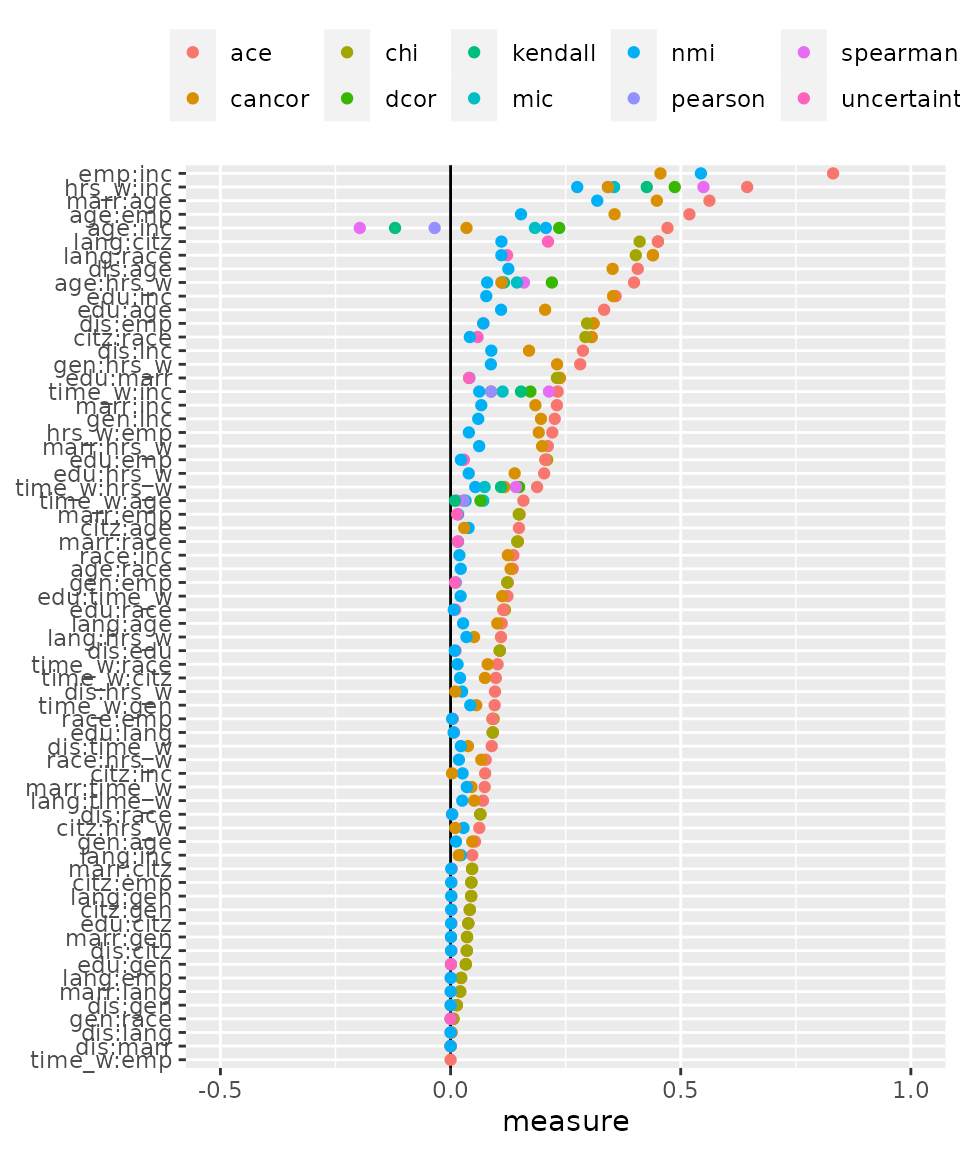
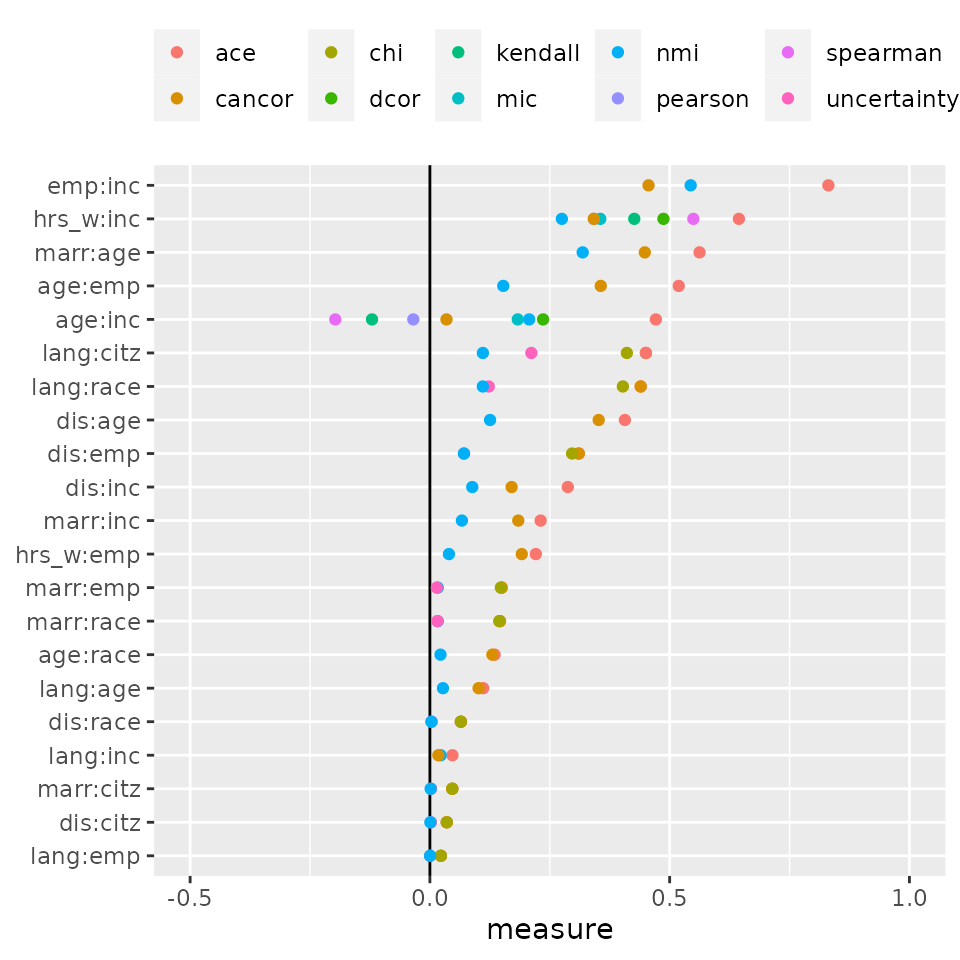
Deploying to gh-pages from @ chinwan16/corVis@39d6e52af5d3ac30970b682ee16a531679c1965a 🚀

diff --git a/articles/seriation.html b/articles/seriation.html
@@ -85,7 +85,7 @@
                         <h4 data-toc-skip class="author">Amit Chinwan
 and Catherine Hurley</h4>
             
-            <h4 data-toc-skip class="date">2023-03-28</h4>
+            <h4 data-toc-skip class="date">2023-03-29</h4>
       
       
       <div class="hidden name"><code>seriation.Rmd</code></div>
@@ -275,7 +275,19 @@ associated variables.</p>
 <div class="sourceCode" id="cb4"><pre class="downlit sourceCode r">
 <code class="sourceCode R"><span><span class="va">multi_assoc</span> <span class="op">&lt;-</span> <span class="fu"><a href="../reference/calc_assoc_all.html">calc_assoc_all</a></span><span class="op">(</span><span class="va">acs12</span><span class="op">)</span></span>
 <span></span>
-<span><span class="fu"><a href="../reference/plot_assoc_linear.html">plot_assoc_linear</a></span><span class="op">(</span><span class="va">multi_assoc</span>, plot_type <span class="op">=</span> <span class="st">"dotplot"</span>,limits <span class="op">=</span> <span class="fu"><a href="https://rdrr.io/r/base/c.html" class="external-link">c</a></span><span class="op">(</span><span class="op">-</span><span class="fl">0.5</span>,<span class="fl">1</span><span class="op">)</span><span class="op">)</span></span></code></pre></div>
+<span><span class="va">multi_assoc</span> <span class="op">|&gt;</span> </span>
+<span>  <span class="fu"><a href="https://dplyr.tidyverse.org/reference/group_by.html" class="external-link">group_by</a></span><span class="op">(</span><span class="va">x</span>,<span class="va">y</span><span class="op">)</span> <span class="op">|&gt;</span> </span>
+<span>  <span class="fu"><a href="https://dplyr.tidyverse.org/reference/summarise.html" class="external-link">summarise</a></span><span class="op">(</span>max<span class="op">=</span><span class="fu"><a href="https://rdrr.io/r/base/Extremes.html" class="external-link">max</a></span><span class="op">(</span><span class="va">measure</span>,na.rm <span class="op">=</span> <span class="cn">T</span><span class="op">)</span><span class="op">)</span> <span class="op">|&gt;</span> </span>
+<span>  <span class="fu"><a href="https://dplyr.tidyverse.org/reference/arrange.html" class="external-link">arrange</a></span><span class="op">(</span><span class="fu"><a href="https://dplyr.tidyverse.org/reference/desc.html" class="external-link">desc</a></span><span class="op">(</span><span class="va">max</span><span class="op">)</span><span class="op">)</span> <span class="op">-&gt;</span> <span class="va">multi_assoc_max</span></span>
+<span><span class="va">multi_assoc_maxf</span> <span class="op">&lt;-</span> <span class="fu"><a href="https://dplyr.tidyverse.org/reference/filter.html" class="external-link">filter</a></span><span class="op">(</span><span class="va">multi_assoc_max</span>,<span class="va">max</span><span class="op">&gt;</span><span class="fl">0.4</span><span class="op">)</span> <span class="co"># filtering variable pairs with a maximum measure value of 0.4 or greater</span></span>
+<span></span>
+<span><span class="va">multi_assoc_mod</span> <span class="op">&lt;-</span> <span class="fu"><a href="https://dplyr.tidyverse.org/reference/filter.html" class="external-link">filter</a></span><span class="op">(</span><span class="va">multi_assoc</span>,</span>
+<span>                          <span class="va">x</span> <span class="op"><a href="https://rdrr.io/r/base/match.html" class="external-link">%in%</a></span> <span class="va">multi_assoc_maxf</span><span class="op">$</span><span class="va">x</span> <span class="op">&amp;</span> <span class="va">y</span> <span class="op"><a href="https://rdrr.io/r/base/match.html" class="external-link">%in%</a></span> <span class="va">multi_assoc_maxf</span><span class="op">$</span><span class="va">y</span><span class="op">)</span></span>
+<span></span>
+<span><span class="fu"><a href="../reference/plot_assoc_linear.html">plot_assoc_linear</a></span><span class="op">(</span><span class="va">multi_assoc_mod</span>,</span>
+<span>                  pair_order <span class="op">=</span> <span class="st">"max"</span>,</span>
+<span>                  plot_type <span class="op">=</span> <span class="st">"dotplot"</span>,</span>
+<span>                  limits <span class="op">=</span> <span class="fu"><a href="https://rdrr.io/r/base/c.html" class="external-link">c</a></span><span class="op">(</span><span class="op">-</span><span class="fl">0.5</span>,<span class="fl">1</span><span class="op">)</span><span class="op">)</span></span></code></pre></div>
 <div class="figure" style="text-align: left">
 <img src="seriation_files/figure-html/linear_cond_max-1.png" alt="Figure 1: Multiple measures display in linear layout with variable pair ordered by maximum absolute measure value." width="480"><p class="caption">
 Figure 1: Multiple measures display in linear layout with variable pair
@@ -285,13 +297,15 @@ ordered by maximum absolute measure value.
 <p>Figure 1 shows the seriated multiple measures display in linear
 layout for <code>acs12</code> data where it is easier to find highly
 associated variable pairs in the plot compared to a plot with default
-variable pairs ordering. The variable pair (<code>emp</code>,
-<code>inc</code>) is placed at the top of the display showing that the
-income and employment status of an individual is highly associated. This
-is expected as employed individuals will have a high income compared to
-unemployed participants. Another highly associated variable pair evident
-from the plot is (<code>hrs_w</code>,<code>inc</code>) showing that
-individuals working more hours earn more money.</p>
+variable pair ordering. The plot shows filtered variable pairs having a
+maximum measure value of 0.4 or greater. The variable pair
+(<code>emp</code>, <code>inc</code>) is placed at the top of the display
+showing that the income and employment status of an individual is highly
+associated. This is expected as employed individuals will have a high
+income compared to unemployed participants. Another highly associated
+variable pair evident from the plot is
+(<code>hrs_w</code>,<code>inc</code>) showing that individuals working
+more hours earn more money.</p>
 <p>We use the range of measures to order variable pairs for conditional
 measures display. The pairs of variables are ordered in descending order
 by range. As a result of this ordering, the variable pairs with the
@@ -302,7 +316,14 @@ levels are similar show that there is no effect of conditioning on their
 association.</p>
 <div class="sourceCode" id="cb5"><pre class="downlit sourceCode r">
 <code class="sourceCode R"><span><span class="va">cond_assoc</span> <span class="op">&lt;-</span> <span class="fu"><a href="../reference/calc_assoc.html">calc_assoc</a></span><span class="op">(</span><span class="va">acs12</span>, by <span class="op">=</span> <span class="st">"edu"</span>, include.overall <span class="op">=</span> <span class="cn">F</span><span class="op">)</span></span>
-<span><span class="fu"><a href="../reference/plot_assoc_linear.html">plot_assoc_linear</a></span><span class="op">(</span><span class="va">cond_assoc</span>, plot_type <span class="op">=</span> <span class="st">"dotplot"</span>,pair_order <span class="op">=</span> <span class="st">"max_diff"</span>, limits <span class="op">=</span> <span class="fu"><a href="https://rdrr.io/r/base/c.html" class="external-link">c</a></span><span class="op">(</span><span class="op">-</span><span class="fl">0.5</span>,<span class="fl">1</span><span class="op">)</span><span class="op">)</span></span></code></pre></div>
+<span><span class="va">cond_assoc</span> <span class="op">|&gt;</span> </span>
+<span>  <span class="fu"><a href="https://dplyr.tidyverse.org/reference/group_by.html" class="external-link">group_by</a></span><span class="op">(</span><span class="va">x</span>,<span class="va">y</span><span class="op">)</span> <span class="op">|&gt;</span> </span>
+<span>  <span class="fu"><a href="https://dplyr.tidyverse.org/reference/summarise.html" class="external-link">summarise</a></span><span class="op">(</span>range<span class="op">=</span><span class="fu"><a href="https://rdrr.io/r/base/Extremes.html" class="external-link">max</a></span><span class="op">(</span><span class="va">measure</span>,na.rm <span class="op">=</span> <span class="cn">T</span><span class="op">)</span><span class="op">-</span><span class="fu"><a href="https://rdrr.io/r/base/Extremes.html" class="external-link">min</a></span><span class="op">(</span><span class="va">measure</span>,na.rm <span class="op">=</span> <span class="cn">T</span><span class="op">)</span><span class="op">)</span> <span class="op">|&gt;</span> </span>
+<span>  <span class="fu"><a href="https://dplyr.tidyverse.org/reference/arrange.html" class="external-link">arrange</a></span><span class="op">(</span><span class="fu"><a href="https://dplyr.tidyverse.org/reference/desc.html" class="external-link">desc</a></span><span class="op">(</span><span class="va">range</span><span class="op">)</span><span class="op">)</span> <span class="op">-&gt;</span> <span class="va">cond_assoc_range</span></span>
+<span><span class="va">cond_assoc_rangef</span> <span class="op">&lt;-</span> <span class="fu"><a href="https://dplyr.tidyverse.org/reference/filter.html" class="external-link">filter</a></span><span class="op">(</span><span class="va">cond_assoc_range</span>,<span class="va">range</span><span class="op">&gt;=</span><span class="fl">0.25</span><span class="op">)</span> <span class="co"># filtering variable pairs with a range of 0.25 or greater</span></span>
+<span><span class="va">cond_assoc_mod</span> <span class="op">&lt;-</span> <span class="fu"><a href="https://dplyr.tidyverse.org/reference/filter.html" class="external-link">filter</a></span><span class="op">(</span><span class="va">cond_assoc</span>,</span>
+<span>                          <span class="va">x</span> <span class="op"><a href="https://rdrr.io/r/base/match.html" class="external-link">%in%</a></span> <span class="va">cond_assoc_rangef</span><span class="op">$</span><span class="va">x</span> <span class="op">&amp;</span> <span class="va">y</span> <span class="op"><a href="https://rdrr.io/r/base/match.html" class="external-link">%in%</a></span> <span class="va">cond_assoc_rangef</span><span class="op">$</span><span class="va">y</span><span class="op">)</span></span>
+<span><span class="fu"><a href="../reference/plot_assoc_linear.html">plot_assoc_linear</a></span><span class="op">(</span><span class="va">cond_assoc_mod</span>, plot_type <span class="op">=</span> <span class="st">"dotplot"</span>,pair_order <span class="op">=</span> <span class="st">"max-min"</span>, limits <span class="op">=</span> <span class="fu"><a href="https://rdrr.io/r/base/c.html" class="external-link">c</a></span><span class="op">(</span><span class="op">-</span><span class="fl">0.5</span>,<span class="fl">1</span><span class="op">)</span><span class="op">)</span></span></code></pre></div>
 <div class="figure" style="text-align: left">
 <img src="seriation_files/figure-html/linear_cond_max_diff-1.png" alt="Figure 2: Conditional association measure display in linear layout with variable pair ordered by maximum difference value at each level" width="480"><p class="caption">
 Figure 2: Conditional association measure display in linear layout with
@@ -310,14 +331,15 @@ variable pair ordered by maximum difference value at each level
 </p>
 </div>
 <p>Figure 2 shows a seriated conditional measure display using the range
-of the measures. The plot shows Pearson’s correlation for the numeric
-variable pairs and canonical correlation for factor pairs and mixed
-pairs. It is easier to spot the variable pairs with high differences
-among measures at different levels of conditioning variable
-<code>edu</code> in the plot. The levels of education in the data are
-high school or lower, college or graduate. There are also individuals in
-the data whose education level is missing and are participants who
-haven’t started school yet.</p>
+of the measures. The plot shows filtered variable pairs having a
+difference in measure values equal to or greater than 0.25. It also
+shows Pearson’s correlation for the numeric variable pairs and canonical
+correlation for factor pairs and mixed pairs. It is easier to spot the
+variable pairs with high differences among measures at different levels
+of conditioning variable <code>edu</code> in the plot. The levels of
+education in the data are high school or lower, college or graduate.
+There are also individuals in the data whose education level is missing
+and are participants who haven’t started school yet.</p>
 <p>The variable pair (<code>marr</code>, <code>age</code>) is placed at
 the top of the display and has the highest difference between the
 measures at different levels of <code>edu</code>. The two variables

diff --git a/articles/integrating_corVis.html b/articles/integrating_corVis.html
@@ -86,7 +86,7 @@
                         <h4 data-toc-skip class="author">Amit Chinwan
 and Catherine Hurley</h4>
             
-            <h4 data-toc-skip class="date">2023-03-28</h4>
+            <h4 data-toc-skip class="date">2023-03-29</h4>
       
       
       <div class="hidden name"><code>integrating_corVis.Rmd</code></div>
@@ -450,13 +450,13 @@ a network display as shown in Figure 2.</p>
 <span><span class="co">## Number of couples: 28 </span></span>
 <span><span class="co">## Number of observations: 344 </span></span>
 <span><span class="co">## Coef.: pearson, spearman, kendall, mic, MaxNMI</span></span>
-<span><span class="co">## Start time: 2023-03-28 23:30:52 </span></span>
-<span><span class="co">## Correlation coef. computation finished: 2023-03-28 23:30:56</span></span></code></pre>
+<span><span class="co">## Start time: 2023-03-29 09:50:12 </span></span>
+<span><span class="co">## Correlation coef. computation finished: 2023-03-29 09:50:15</span></span></code></pre>
 <div class="sourceCode" id="cb4"><pre class="downlit sourceCode r">
 <code class="sourceCode R"><span><span class="fu"><a href="https://rdrr.io/pkg/linkspotter/man/linkspotterGraph.html" class="external-link">linkspotterGraph</a></span><span class="op">(</span>corDF <span class="op">=</span> <span class="va">corCouples</span>, corMethod <span class="op">=</span> <span class="st">"pearson"</span>, smoothEdges <span class="op">=</span> <span class="cn">FALSE</span>, </span>
 <span>  dynamicNodes <span class="op">=</span> <span class="cn">FALSE</span><span class="op">)</span></span></code></pre></div>
-<div id="htmlwidget-3d3d0646a7ff8dc2876f" style="width:100%;height:100%;" class="visNetwork html-widget "></div>
-<script type="application/json" data-for="htmlwidget-3d3d0646a7ff8dc2876f">{"x":{"nodes":{"id":["species","island","bill_length_mm","bill_depth_mm","flipper_length_mm","body_mass_g","sex","year"],"label":["species","island","bill_length_mm","bill_depth_mm","flipper_length_mm","body_mass_g","sex","year"],"title":["species","island","bill_length_mm","bill_depth_mm","flipper_length_mm","body_mass_g","sex","year"]},"edges":{"id":["15","16","19","20","23"],"from":["bill_length_mm","bill_length_mm","bill_depth_mm","bill_depth_mm","flipper_length_mm"],"to":["flipper_length_mm","body_mass_g","flipper_length_mm","body_mass_g","body_mass_g"],"typeOfCouple":["num.num","num.num","num.num","num.num","num.num"],"pearson":[0.656181340746428,0.59510982443763,-0.583851216465413,-0.471915621186067,0.871201767306011],"spearman":[0.672771941625554,0.583800319445548,-0.523267471161074,-0.432372221413044,0.8399741230313],"kendall":[0.483345441762745,0.433359178368938,-0.281894499346629,-0.195069846128774,0.660467495345973],"mic":[0.483850848406702,0.392274673666884,0.659988830906406,0.518085006394912,0.694241372377172],"MaxNMI":[0.277196195251305,0.242222561231358,0.363633947863205,0.352718792752059,0.416165430100181],"correlationType":["positive","positive","negative","negative","positive"],"value":[0.656181340746428,0.59510982443763,0.583851216465413,0.471915621186067,0.871201767306011],"title":["pearson: 0.66","pearson: 0.60","pearson: -0.58","pearson: -0.47","pearson: 0.87"]},"nodesToDataframe":true,"edgesToDataframe":true,"options":{"width":"100%","height":"100%","nodes":{"shape":"dot"},"manipulation":{"enabled":false},"edges":{"smooth":false}},"groups":null,"width":"100%","height":"100%","idselection":{"enabled":false},"byselection":{"enabled":false},"main":null,"submain":null,"footer":null,"background":"rgba(0, 0, 0, 0)","events":{"stabilizationIterationsDone":"function () {this.setOptions( { physics: false } );}"}},"evals":["events.stabilizationIterationsDone"],"jsHooks":[]}</script><div class="sourceCode" id="cb5"><pre class="downlit sourceCode r">
+<div id="htmlwidget-54627432c6e4d6afd9c2" style="width:100%;height:100%;" class="visNetwork html-widget "></div>
+<script type="application/json" data-for="htmlwidget-54627432c6e4d6afd9c2">{"x":{"nodes":{"id":["species","island","bill_length_mm","bill_depth_mm","flipper_length_mm","body_mass_g","sex","year"],"label":["species","island","bill_length_mm","bill_depth_mm","flipper_length_mm","body_mass_g","sex","year"],"title":["species","island","bill_length_mm","bill_depth_mm","flipper_length_mm","body_mass_g","sex","year"]},"edges":{"id":["15","16","19","20","23"],"from":["bill_length_mm","bill_length_mm","bill_depth_mm","bill_depth_mm","flipper_length_mm"],"to":["flipper_length_mm","body_mass_g","flipper_length_mm","body_mass_g","body_mass_g"],"typeOfCouple":["num.num","num.num","num.num","num.num","num.num"],"pearson":[0.656181340746428,0.59510982443763,-0.583851216465413,-0.471915621186067,0.871201767306011],"spearman":[0.672771941625554,0.583800319445548,-0.523267471161074,-0.432372221413044,0.8399741230313],"kendall":[0.483345441762745,0.433359178368938,-0.281894499346629,-0.195069846128774,0.660467495345973],"mic":[0.483850848406702,0.392274673666884,0.659988830906406,0.518085006394912,0.694241372377172],"MaxNMI":[0.277196195251305,0.242222561231358,0.363633947863205,0.352718792752059,0.416165430100181],"correlationType":["positive","positive","negative","negative","positive"],"value":[0.656181340746428,0.59510982443763,0.583851216465413,0.471915621186067,0.871201767306011],"title":["pearson: 0.66","pearson: 0.60","pearson: -0.58","pearson: -0.47","pearson: 0.87"]},"nodesToDataframe":true,"edgesToDataframe":true,"options":{"width":"100%","height":"100%","nodes":{"shape":"dot"},"manipulation":{"enabled":false},"edges":{"smooth":false}},"groups":null,"width":"100%","height":"100%","idselection":{"enabled":false},"byselection":{"enabled":false},"main":null,"submain":null,"footer":null,"background":"rgba(0, 0, 0, 0)","events":{"stabilizationIterationsDone":"function () {this.setOptions( { physics: false } );}"}},"evals":["events.stabilizationIterationsDone"],"jsHooks":[]}</script><div class="sourceCode" id="cb5"><pre class="downlit sourceCode r">
 <code class="sourceCode R"><span><span class="va">nw_corVis</span> <span class="op">&lt;-</span> <span class="kw">function</span><span class="op">(</span><span class="va">assoc</span><span class="op">)</span><span class="op">{</span></span>
 <span>  <span class="va">assoc</span> <span class="op">&lt;-</span> <span class="fu"><a href="../reference/sym_assoc.html">sym_assoc</a></span><span class="op">(</span><span class="va">assoc</span><span class="op">)</span></span>
 <span>  <span class="va">graph</span> <span class="op">&lt;-</span> <span class="fu"><a href="https://rdrr.io/pkg/igraph/man/graph_from_data_frame.html" class="external-link">graph_from_data_frame</a></span><span class="op">(</span><span class="va">assoc</span><span class="op">)</span></span>

diff --git a/reference/plot_assoc_linear.html b/reference/plot_assoc_linear.html
@@ -68,7 +68,7 @@
     <div id="ref-usage">
     <div class="sourceCode"><pre class="sourceCode r"><code><span><span class="fu">plot_assoc_linear</span><span class="op">(</span></span>
 <span>  <span class="va">assoc</span>,</span>
-<span>  pair_order <span class="op">=</span> <span class="st">"default"</span>,</span>
+<span>  pair_order <span class="op">=</span> <span class="st">"max"</span>,</span>
 <span>  plot_type <span class="op">=</span> <span class="fu"><a href="https://rdrr.io/r/base/c.html" class="external-link">c</a></span><span class="op">(</span><span class="st">"dotplot"</span>, <span class="st">"heatmap"</span><span class="op">)</span>,</span>
 <span>  limits <span class="op">=</span> <span class="fu"><a href="https://rdrr.io/r/base/c.html" class="external-link">c</a></span><span class="op">(</span><span class="op">-</span><span class="fl">1</span>, <span class="fl">1</span><span class="op">)</span></span>
 <span><span class="op">)</span></span></code></pre></div>
@@ -82,13 +82,13 @@ Must be of class <code>pairwise</code>, <code>cond_pairwise</code> or <code>mult
 
 
 <dt>pair_order</dt>
-<dd><p>a character string for ordering of the pairs of variables in linear layout. One of "default" (default) or "max_diff".
-When set to "default", pairs are arranged in decreasing order of the absolute value of measure or measures (when multiple measure per pair are present).
-When set to "max_diff", the ordering is only applicable to assoc with class cond_pairwise or multi_pairwise and the pairs are ordered in descending order of the maximum difference calculated among the measures.</p></dd>
+<dd><p>a character string for ordering of the pairs of variables in linear layout. One of "max" (default) or "max_diff".
+When set to "max", pairs are arranged in decreasing order of the absolute value of measure or measures (when multiple measures per pair are present).
+When set to "max-min", the ordering is only applicable to assoc with class cond_pairwise or multi_pairwise and the pairs are ordered in descending order of the maximum difference calculated among the measures.</p></dd>
 
 
 <dt>plot_type</dt>
-<dd><p>a character string for specifying the type of plot an analyst wants. One of "heatmap" or "dotplot".</p></dd>
+<dd><p>a character string for specifying the type of plot an analyst wants. One of "dotplot" or "heatmap".</p></dd>
 
 
 <dt>limits</dt>
@@ -99,7 +99,7 @@ When set to "max_diff", the ordering is only applicable to assoc with class cond
     <h2>Value</h2>
     
 
-<p>A static <code>ggplot2</code> plot</p>
+<p>A <code>ggplot2</code> object</p>
     </div>
 
     <div id="ref-examples">

diff --git a/articles/scagnostic_corVis.html b/articles/scagnostic_corVis.html
@@ -85,7 +85,7 @@ and corVis</h1>
                         <h4 data-toc-skip class="author">Amit Chinwan
 and Catherine Hurley</h4>
             
-            <h4 data-toc-skip class="date">2023-03-28</h4>
+            <h4 data-toc-skip class="date">2023-03-29</h4>
       
       
       <div class="hidden name"><code>scagnostic_corVis.Rmd</code></div>

diff --git a/articles/vis_association.html b/articles/vis_association.html
@@ -84,7 +84,7 @@
                         <h4 data-toc-skip class="author">Amit Chinwan
 and Catherine Hurley</h4>
             
-            <h4 data-toc-skip class="date">2023-03-28</h4>
+            <h4 data-toc-skip class="date">2023-03-29</h4>
       
       
       <div class="hidden name"><code>vis_association.Rmd</code></div>

diff --git a/reference/plot_assoc_matrix.html b/reference/plot_assoc_matrix.html
@@ -104,7 +104,7 @@ using Dendser or a user provided variable order.</p></dd>
     <h2>Value</h2>
     
 
-<p>A static <code>ggplot2</code> plot</p>
+<p>A <code>ggplot2</code> object</p>
     </div>
 
     <div id="ref-examples">
